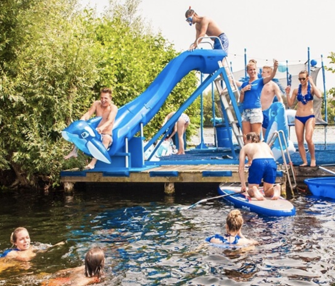
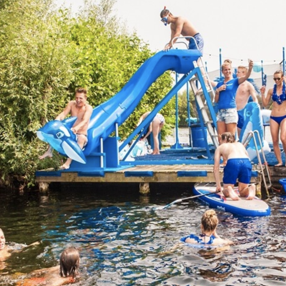
Cases CSS improvements

diff --git a/src/components/Work/Cases/SingleCase.style.js b/src/components/Work/Cases/SingleCase.style.js
@@ -2,21 +2,48 @@ import styled from 'styled-components'
 import breakpoints from './../../../breakpoints.js';
 
 export const Article = styled.article`
-    /* flex: 50%; */
+    width: 50%;
+
+    &:nth-child(odd) {
+        div {
+            margin: 10px 10px 10px 20px
+        }
+
+        @media ${breakpoints.device.phone} {
+            div {
+                margin: 0px;
+            }
+        }
+    }
+
+    &:nth-child(even) {
+        div {
+            margin: 10px 20px 10px 10px
+        }
+
+        @media ${breakpoints.device.phone} {
+            div {
+                margin: 0px;
+            }
+        }
+    }
+
+    @media ${breakpoints.device.phone} {
+        width: 100%;
+    }
 
     &:hover img{
         clip-path: inset(5px);
     }
 
     &:hover button p{
-        transform: translateX(10px);
+        transform: translateX(20px);
     }
 `
 
 export const Image = styled.img`
-clip-path: inset(0px);
-    width: 500px;
-    height: 500px;
+    clip-path: inset(0px);
+    width: 100%;
     object-fit: cover;
     transition: all 0.2 ease-in;
     -webkit-transition: all 0.2s ease-in;
@@ -38,6 +65,8 @@ export const Title = styled.h3`
     font-weight: 200;
     font-size: 30px;
     color: #272727;
+    line-height: 1;
+    margin: 0;
 `
 
 export const Button = styled.button`
@@ -45,6 +74,8 @@ export const Button = styled.button`
     align-items: center;
     border: none;
     background-color: transparent;
+    margin: 0;
+    padding: 0;
 
     p {
         font-family: 'Arial', -apple-system, sans-serif;
@@ -55,8 +86,8 @@ export const Button = styled.button`
         transition: all 0.2 ease-in;
         -webkit-transition: all 0.2s ease-in;
         -moz-transition: all 0.2s ease-in;
-        -o-transition: all 0.2s ease-in;
-
+        -o-transition: all 0.2s ease-in;        
+        transform: translateX(10px);
     }
 
     svg {

diff --git a/src/components/Work/Cases/Cases.js b/src/components/Work/Cases/Cases.js
@@ -2,7 +2,7 @@ import React, {useState, useEffect} from 'react';
 import {useLocation} from 'react-router-dom';
 import axios from 'axios';
 
-import {Section, Message} from './Cases.style.js';
+import {CasesContainer, Section, Message} from './Cases.style.js';
 
 import Filter from './Filter.js'
 import SingleCase from './SingleCase.js'
@@ -71,22 +71,22 @@ function Cases(props) {
       }
     
     return (
-        <>
-        <Filter onChange={handleFilterChange} categories={Categories} categoryValue={category} industries={Industries} industryValue={industry}/>
-        <Section>
-            {
-                cases.map((singleCase) => (
-                    <SingleCase key={singleCase.id} case={singleCase}/>
-                ))
+        <CasesContainer>
+            <Filter onChange={handleFilterChange} categories={Categories} categoryValue={category} industries={Industries} industryValue={industry}/>
+            <Section>
+                {
+                    cases.map((singleCase) => (
+                        <SingleCase key={singleCase.id} case={singleCase}/>
+                    ))
+                }
+            </Section>
+            {paginate &&
+                <Paginate onChange={handlePageChange} pageNumber={pageNumber} pageCount={pageCount} pageRange={pageRange}/>
             }
-        </Section>
-        {paginate &&
-            <Paginate onChange={handlePageChange} pageNumber={pageNumber} pageCount={pageCount} pageRange={pageRange}/>
-        }
-        {cases.length === 0 &&
-            <Message>Congrats, you have found a unicorn :) Change the filters to check out more cases!</Message>
-        }
-        </>
+            {cases.length === 0 &&
+                <Message>Congrats, you have found a unicorn :) Change the filters to check out more cases!</Message>
+            }
+        </CasesContainer>
     );
   }
   

diff --git a/src/components/Work/Cases/SingleCase.js b/src/components/Work/Cases/SingleCase.js
@@ -7,17 +7,19 @@ import {ReactComponent as ArrowIcon} from './../../../assets/icons/icon-dropdown
 
 function SingleCase(props) {
     return (
-        <Fade bottom distance="50px">
+        // <Fade bottom distance="50px">
             <Article>
-                <Image src={props.case.image} alt={props.case.description}/>
-                <Label>{props.case.label}</Label>
-                <Title>{props.case.title}</Title>
-                <Button>
-                    <ArrowIcon />
-                    <p>View Case</p>
-                </Button>
+                <div>
+                    <Image src={props.case.image} alt={props.case.description}/>
+                    <Label>{props.case.label}</Label>
+                    <Title>{props.case.title}</Title>
+                    <Button>
+                        <ArrowIcon />
+                        <p>View Case</p>
+                    </Button>
+                </div>
             </Article>
-        </Fade>
+        // </Fade>
     );
   }
   

diff --git a/src/components/Work/Cases/Cases.style.js b/src/components/Work/Cases/Cases.style.js
@@ -1,6 +1,15 @@
 import styled from 'styled-components'
 import breakpoints from './../../../breakpoints.js';
 
+export const CasesContainer = styled.div`
+    max-width: 1200px;
+    margin: 0 auto 20px auto;
+
+    @media ${breakpoints.device.phone} {
+        margin: 0 20px;
+    }
+`
+
 export const Section = styled.section`
     display: flex;
     flex-wrap: wrap;
@@ -10,4 +19,9 @@ export const Message = styled.p`
     font-family: 'Arial', -apple-system, sans-serif;
     font-size: 16px;
     color: #272727;
+    padding: 20px 40px;
+
+    @media ${breakpoints.device.phone} {
+        padding: 20px;
+    }
 `

diff --git a/src/components/Work/Cases/Paginate.style.js b/src/components/Work/Cases/Paginate.style.js
@@ -4,6 +4,14 @@ import breakpoints from './../../../breakpoints.js';
 export const Divider = styled.hr`
     border: 0.5px solid;
     border-color: #dddddd;
+
+    @media ${breakpoints.device.tablet} {
+        margin: 0 20px
+    }
+
+    @media ${breakpoints.device.desktop} {
+        /* margin: 0 40px */
+    }
 `
 
 export const PaginateContainer = styled.div`

diff --git a/src/components/Work/Cases/Filter.style.js b/src/components/Work/Cases/Filter.style.js
@@ -6,6 +6,7 @@ export const FilterContainer = styled.div`
     display: flex;
     flex-wrap: wrap;
     justify-content: flex-end;
+    margin: 20px 0px;
 
     @media ${breakpoints.device.phone}{
         justify-content: flex-start;
